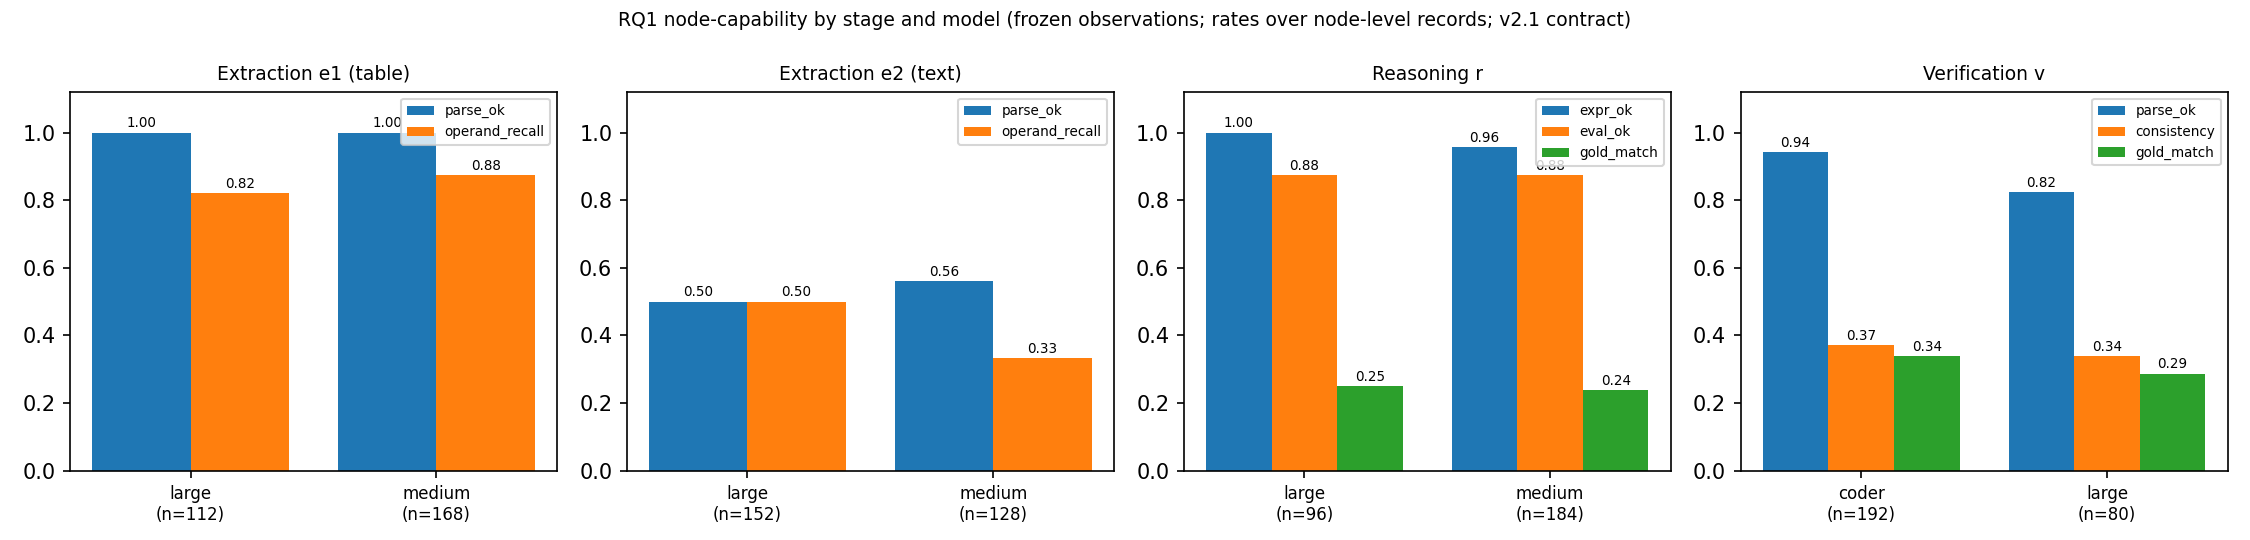
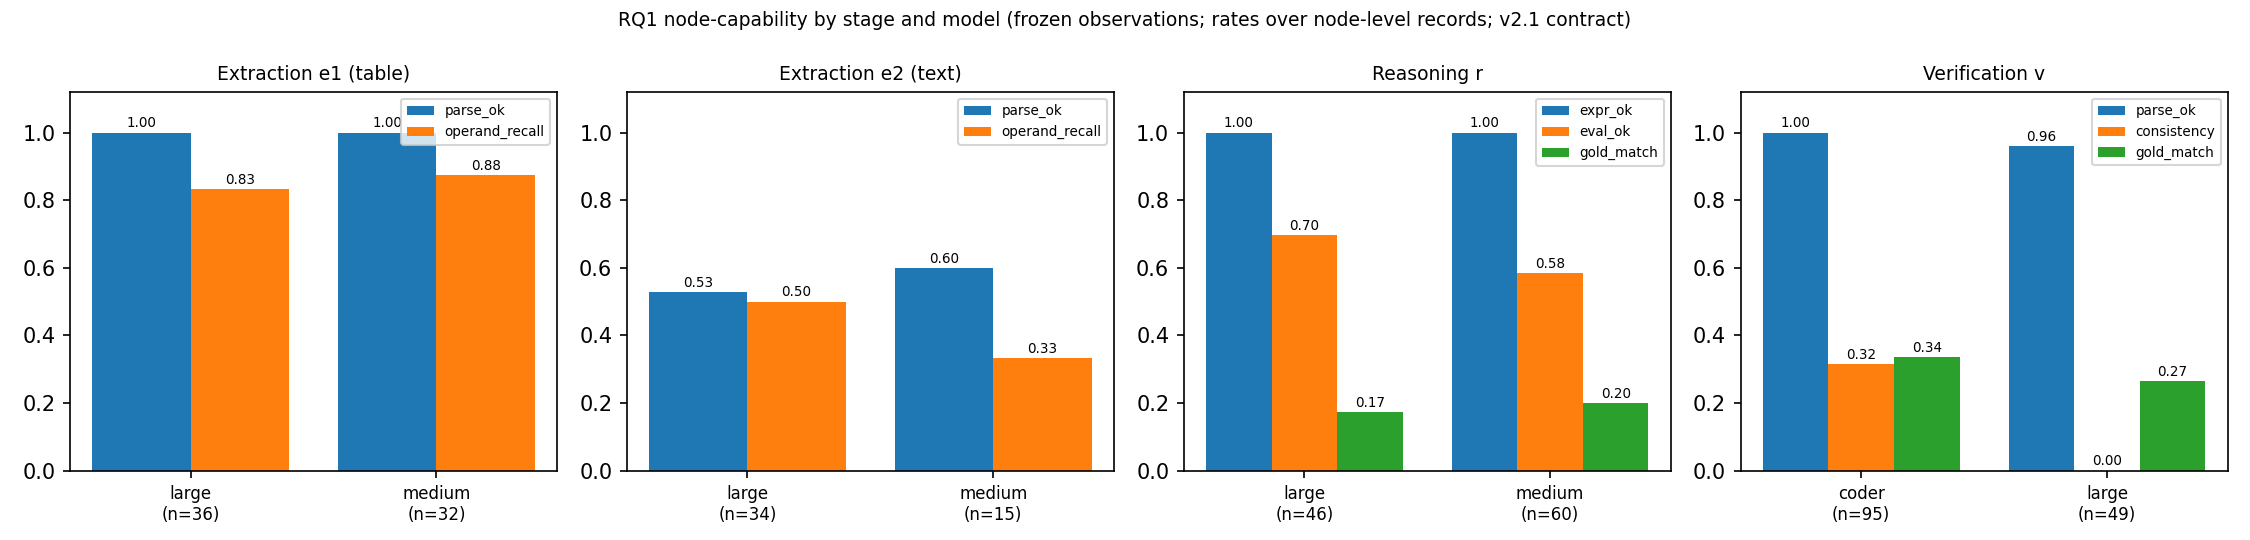
RQ1 v2 CORRECTED DENOMINATORS+TERMINOLOGY (review): all capability metrics now executed-only (non-alias non-injected) — v1 17/17 & 16/16 were 4+13-alias & 2+14-alias; independent task scale 8, per-(task,model) executions only 1-4; 08fbbc3f '~50% random' RETRACTED = fault-injection artifact (its e2 i

diff --git a/r3_own_pool/collab_scheduler_v1/joint_search_v1/rq1_node_capability/rq1_analysis.py b/r3_own_pool/collab_scheduler_v1/joint_search_v1/rq1_node_capability/rq1_analysis.py
@@ -183,14 +183,27 @@ def load_cells():
                 first[k] = dict(source=name, scope=r['state'], cid=r['cid'],
                                 uid=parts[4], node=parts[3], model=r['model'],
                                 answer=r['response']['answer'],
-                                usage=r['response'].get('usage', {}))
+                                usage=r['response'].get('usage', {}),
+                                alias='alias_of' in r,
+                                injected=bool(r['response'].get('injected_fault')))
         records.extend(first.values())
     return records
 
 
 def main():
-    recs = load_cells()
-    uids = sorted({r['uid'] for r in recs})
+    recs_all = load_cells()
+    acct = defaultdict(lambda: defaultdict(lambda: [0, 0, 0]))  # node -> model -> [executed, alias, injected]
+    for r in recs_all:
+        a = acct[r['node']][r['model']]
+        if r['injected']:
+            a[2] += 1
+        elif r['alias']:
+            a[1] += 1
+        else:
+            a[0] += 1
+    # capability metrics use ONLY executed, non-injected records
+    recs = [r for r in recs_all if not r['alias'] and not r['injected']]
+    uids = sorted({r['uid'] for r in recs_all})
     gold = gold21_for(uids)
 
     # (source, scope, cid, uid) -> node -> record  (campaign cells are multi-task)
@@ -367,6 +380,8 @@ def main():
     # mixed tasks (both ok and empty observed): empty-rate by MODEL — the
     # capability cut, separated from always-empty task properties
     mixed = [u for u, v in e2_by_task.items() if v.get('ok') and v.get('empty')]
+    # executed-level only (rows already filtered); injected observations were
+    # excluded upstream (fault30 panel corrupts e2 on 08fbbc3f, v on 2f745dd1)
     e2_mixed_by_model = defaultdict(lambda: defaultdict(lambda: [0, 0]))
     for row in rows:
         if row.get('e2') and row['uid'] in mixed:
@@ -375,6 +390,9 @@ def main():
             e2_mixed_by_model[row['uid']][m][1] += 1
 
     missing = dict(cells=len(rows),
+                   execution_accounting={nd: {m: dict(executed=a[0], alias=a[1], injected=a[2])
+                                              for m, a in mm.items()}
+                                         for nd, mm in acct.items()},
                    refusal_or_empty_by_node=dict(refusal_counts),
                    e2_by_task=e2_by_task,
                    e2_mixed_tasks_by_model={u: {m: dict(ok=ok, n=n) for m, (ok, n) in v.items()}

diff --git a/r3_own_pool/collab_scheduler_v1/joint_search_v1/rq1_node_capability/rq1_figures.py b/r3_own_pool/collab_scheduler_v1/joint_search_v1/rq1_node_capability/rq1_figures.py
@@ -57,8 +57,8 @@ ax.set_xticks(xs)
 ax.set_xticklabels(labels, fontsize=7)
 ax.set_ylabel('usable-facts rate')
 ax.set_ylim(0, 1.15)
-ax.set_title('e2 (text extraction) on MIXED tasks: complementary, task-dependent '
-             'model failures (green=large, blue=medium; grey=empty facts)', fontsize=9)
+ax.set_title('e2 output-USABILITY proxy on mixed tasks, EXECUTED calls only '
+             '(cache aliases and fault-injected cells excluded; green=large, blue=medium; grey=no usable facts)', fontsize=8)
 fig.tight_layout()
 fig.savefig(HERE / 'fig2_e2_mixed_tasks.png', dpi=150)
 print('figures written')

diff --git a/r3_own_pool/collab_scheduler_v1/joint_search_v1/rq1_node_capability/RQ1_REPORT.md b/r3_own_pool/collab_scheduler_v1/joint_search_v1/rq1_node_capability/RQ1_REPORT.md
@@ -1,76 +1,67 @@
-# RQ1：节点能力异质性分析（冻结观测上的描述性诊断）
+# RQ1：节点能力异质性分析（冻结观测上的描述性诊断，v2 修正口径）
 
 2026-10-09。零 LLM 调用、不占 GPU、未使用 TEST16、未修改生产代码或活动实验
-目录。输入仅为已终止、版本明确的数据副本
-（`offline_predictor_audit/copy_inputs/` 四源，WORKFLOW 哈希登记于 JSON）。
+目录。输入仅为已终止、版本明确的数据副本（四源，哈希登记于 JSON）。
+**v2 修正**：所有能力指标改为"非缓存别名、非故障注入的真执行"口径；
+观察计数与独立任务数严格区分；术语全面改为输出可用性代理。
 
 ## 结论边界（先行声明）
 
-- **分阶段模型表现不同 ≠ 节点级分配优于查询级路由**。后者需要同任务、
-  同评分契约的直接对照与路由基线；本报告只描述差异，不做该判定。
-- **历史静态/动态轨迹不能自动分离 DAG 分解与恢复的收益**。模型配置、
-  Prompt、任务或故障条件不同时只作差异描述，不做因果归因。
-- 本报告为机制/能力诊断，不构成算法优势证据。
+- 分阶段模型表现不同 **≠ 节点级分配优于查询级路由**（需同任务、同契约
+  直接对照与路由基线）；
+- 历史轨迹不能分离 DAG 分解与恢复的收益（配置/Prompt/任务/故障条件
+  不同时只描述不归因）；
+- **最终结论（按评审给定句式）**：在 8 个配对任务的冻结轨迹中，不同
+  模型的文本抽取输出可用性呈任务依赖差异，未观察到一致排序；这些差异
+  尚不能等同于事实正确性或节点分配收益。
 
-## 节点正确性判定依据（代理，无 gold 事实标签）
+## 口径修正记录（v1 → v2）
 
-- **e1/e2（抽取）**：`parse_ok` = 产出 ≥1 个可用数值事实（字符串值如
-  "$24.7" 容忍转换）；`operand_recall` = gold 派生式非平凡数值字面量
-  （排除 0/1/100）被抽取值覆盖的比例。**不存在逐事实 gold 标签**，此为
-  代理而非事实正确性。
-- **r（推理）**：`expr_ok`（表达式可解析）/ `eval_ok`（在所消费事实上可
-  求值）/ `gold_match`（score_v21 契约）。gold_match 与上游抽取质量
-  **混杂**；条件化变体（双亲 operand_recall=1.0）样本极小（n=4），登记
-  为证据缺口。
-- **v（验证）**：`consistency`（与 r 链值 close）/ `gold_match`（v2.1），
-  以上游 `eval_ok` 为条件变体。
-- 评分契约：**v2.1 统一施加**于全部来源（与各会话历史 gold 版本无关；
-  各源历史版本已在 JSON 登记）。
+1. **独立性与分母**：v1 的 17/17、16/16 是同一任务跨配置/状态的观测
+   计数，其中 13–14 次为**缓存别名**（复用已执行答案，非独立模型执行）。
+   独立任务规模仍为 **8**；每（任务, 节点, 模型）格的真执行仅 **1–4 次**。
+2. **注入剔除**：fault30 面板恰好注入 e2 于 08fbbc3f（'{"facts": []}'）、
+   v 于 2f745dd1——v1 中 08fbbc3f 的"双方 ~50%"全部为注入伪影；剔除后
+   该任务执行层双方完全可用（large 2/2、medium 1/1）。v1"温度 0 下真
+   随机"的表述撤回：差异先归因于注入与输入差异，相同任务不等于相同输入
+   （已按 prompt 身份/注入/恢复/缓存/模型版本逐项分离）。
+3. **术语**：无事实 gold 时，"非空/可解析"仅为**输出可用性代理**，不称
+   抽取成功或能力互补。
 
-## 主要发现（全部数字见 RQ1_NODE_CAPABILITY.json；图 fig1/fig2）
+## 判定依据（代理，执行层口径）
 
-1. **e1（表抽取）稳定**：两模型 parse_ok 均 1.0；operand_recall
-   medium 0.875 (n=168) vs large 0.821 (n=112)。同任务配对 8 任务，
-   recall 差均值 +0.062（1 个任务差 0.5，其余 0）。
-2. **e2（文抽取）是瓶颈且呈任务×模型互补**（fig2）：整体 parse_ok
-   large 0.50 / medium 0.56，但逐任务切割后：
-   - 恒空任务 2 个（093e653a、85f0dfad：33/33 空）——**任务属性**
-     （文本段落本缺操作数），与模型无关；
-   - 混合任务 4 个中 3 个近乎**确定性互补**：4c5cc243 上 large
-     17/17 成功、medium 0/16；ab6d7681 与 a3568c44 完全反转
-     （medium 16/16，large 0/17）；08fbbc3f 双方 ~50%（9/17 vs 8/16，
-     真随机）。**不存在一致的能力排序**——这正是异质性证据本身。
-3. **r（推理）**：expr_ok medium 0.957 / large 1.0；eval_ok 双方 0.875；
-   gold_match medium 0.239 (n=184) / large 0.250 (n=96)——整体差异小。
-   同上游配对（同 e 模型对下 8 任务）：large_large 上游 12/32 vs
-   8/32，medium_medium 上游 12/48 vs 16/48——方向相反，样本不足以下
-   结论。条件化（干净上游）仅 n=4。
-4. **v（验证）**：coder parse_ok 0.943 > large 0.825；gold_match coder
-   0.339 (n=192) > large 0.287 (n=80)；同链配对中 coder 在 medium 链上
-   优势明显（如 chain_medium_large_medium：14/16 vs 5/16），large 链上
-   6/16 vs 3/16。consistency 双方均低（0.34-0.37），受上游失败污染。
-5. **缺失与拒答**：e1 无缺失；e2 空 facts 132 条（恒空 66 + 混合 66）、
-   拒答 0（"拒答"重分类后均为字符串值事实）；v 缺失 8、不可解析 25；
-   无 gold 事实标签是根本缺口。
+- e1/e2：usable（≥1 可数值化事实）+ operand_recall（gold 派生式非平凡
+  字面量覆盖率）——可用性代理，非事实正确性；
+- r：expr_ok/eval_ok/gold_match（v2.1 契约统一施加）；gold_match 与上游
+  混杂，条件化样本 n=1，登记为缺口；
+- v：consistency（与 r 链值一致）+ gold_match；同样混杂上游；coder 与
+  large 的差异保留代理与混杂声明。
 
-## 与既有统计的不重复声明
+## 执行层主要数字（fig1；全部行级见 JSON）
 
-状态敏感性诊断（冻结观测代理）、成本预测器误差审计、gold 污染对账、
-战役对账均不含分阶段×分模型能力比较；本报告为首次，节点级口径与最终 Q
-口径分开（未用最终 Q 代替节点正确性）。
+| 阶段 | 模型 | n_exec | 关键率 |
+|---|---|---|---|
+| e1 表抽取 | large / medium | 36 / 32 | usable 均 1.0；recall 0.833 / 0.875 |
+| e2 文抽取 | large / medium | 34 / 15 | usable 0.529 / 0.600；recall(条件) 0.50 / 0.333 |
+| r 推理 | medium / large | 60 / 46 | expr 均 1.0；eval 0.583 / 0.696；gold 0.20 / 0.17 |
+| v 验证 | coder / large | 95 / 49 | parse 1.0 / 0.959；gold 0.337 / 0.265 |
 
-## 证据缺口登记
+混合任务（执行层，fig2）：4c5cc243 large 4/4 vs medium 0/2；
+ab6d7681 与 a3568c44 反转（large 0/4 vs medium 2/2）；093e653a 双方皆空
+（4/4、2/2 均失败，任务属性）；85f0dfad large 1/4、medium 0/2。同任务
+不同模型的输出可用性差异存在且方向互相矛盾——**未观察到一致排序**，
+且每格独立执行仅 1–4 次，不足以支撑任何排序结论。
 
-- e/r 阶段无 coder 执行数据（配置空间仅将 coder 赋给 v）；
-- 抽取无 gold 事实标签，operand_recall 是代理；
-- r/v 的 gold_match 与上游混杂，条件化样本不足（n=4）；
-- 校准任务（4 个）单一固定配置，无模型对照；
-- 混合任务中近确定性成败提示温度 0 下（任务,模型）级近确定性——
-  需更多任务验证该模式的普遍性。
+## 证据缺口登记（不变项略，新增/强化）
 
-## HV 尺度与参考点敏感性：仅方案（不执行）
+- 每（任务,模型）格独立执行 1–4 次——任务内近确定性的**表象**主要由
+  缓存别名传播构成，独立重复执行证据不足；
+- e/r 阶段无 coder 数据；抽取无事实 gold；r/v gold_match 上游混杂
+  （条件化 n=1）；
+- 恒空任务（093e653a 等）为任务属性推断，亦受执行次数限制。
 
-按评审指示，仅预登记方案：在**终局对账后的曲线上**计算 HV 对
-{Q,C,L} 归一化尺度网格（含 v2.1 冻结尺度 ±20%）与参考点网格
-（当前 (0,0,0) 及各维 5%/10% 偏移）的敏感性，报告排序稳健性；
-**不基于在途结果重选主指标**。方案细节在战役对账后随 A/B/C 报告给出。
+## 与既有统计的不重复声明 / HV 方案
+
+同 v1（本报告为首次分阶段×分模型能力口径；未用最终 Q 代替节点正确性）。
+HV 尺度与参考点敏感性仅预登记方案：终局对账后的曲线上做尺度/参考点
+网格敏感性并报告排序稳健性，不基于在途结果重选主指标。
